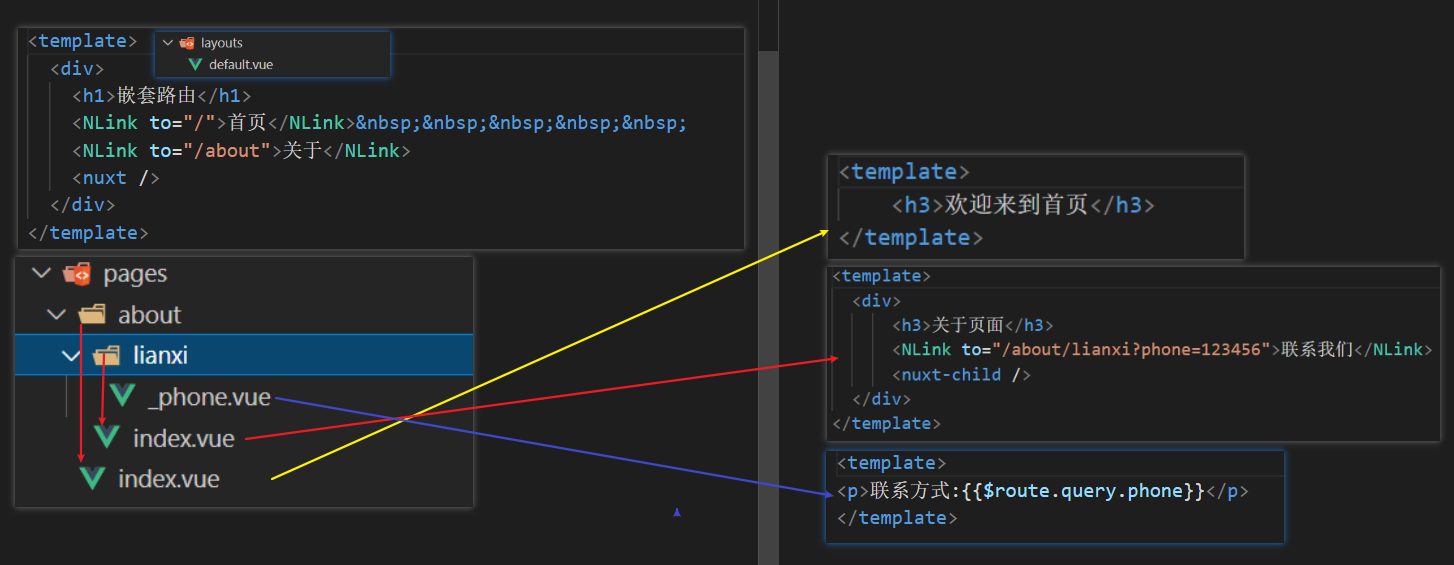
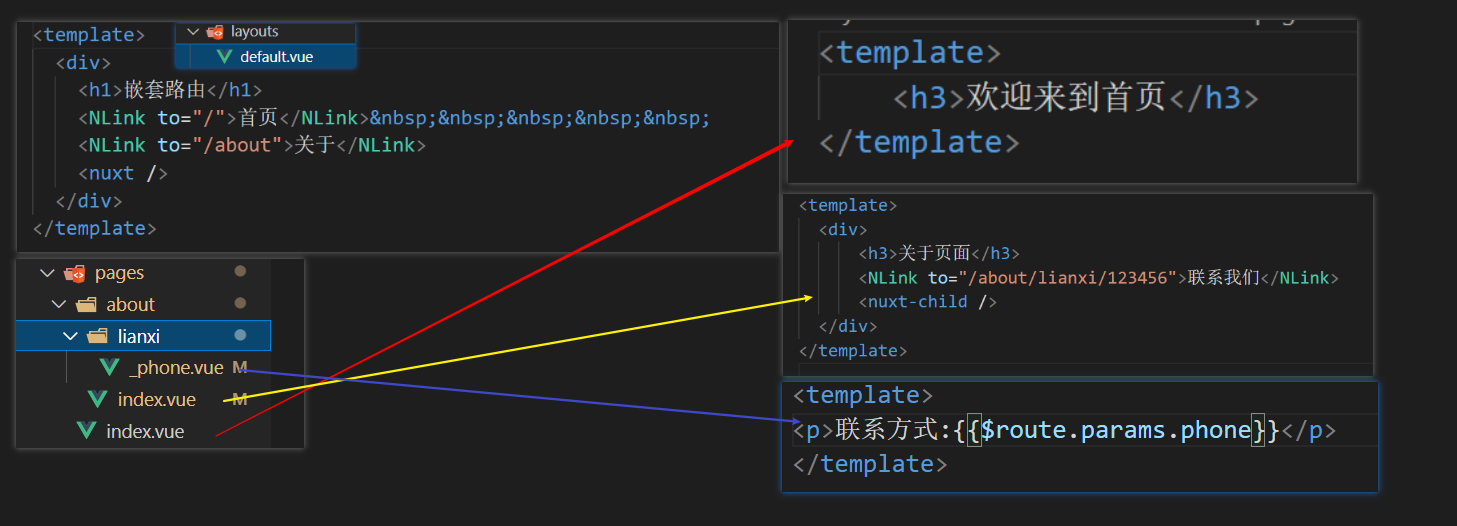
知识点总结

diff --git a/学院知识总结/Nuxt/基础知识点.md b/学院知识总结/Nuxt/基础知识点.md
@@ -118,11 +118,11 @@ nuxt-link-exact-active //精确匹配
 2. 路由和文件的关系
     | 文件 | 对应路径 |
     |--------|------|
-    | pages/index.vue | / | 
-    | pages/about.vue | /about | 
-    | pages/user/index.vue | /user | 
-    | pages/user/details | /user/details | 
-![图片](./img/3.png) 
+    | pages/index.vue | / |
+    | pages/about.vue | /about |
+    | pages/user/index.vue | /user |
+    | pages/user/details | /user/details |
+    ![图片](./img/3.png) 
 
 3. 动态路由
 ### 路径参数
@@ -134,7 +134,8 @@ nuxt-link-exact-active //精确匹配
 ![图片](./img/6.png) 
 
 ``总结:``
-* 文件夹的层级就是路由的嵌套关系,一旦涉及参数传递单个_参数名.vue,多个文件夹名也要下划线开头。
+* 文件夹的层级就是路由的嵌套关系,路径方式参数传递单个_参数名.vue,多个文件夹名也要下划线开头。
+* 查询方式参数传递,直接 路径.vue,接收$route.query.参数名即可。
 
 ## asyncData(异步数据)
 
@@ -175,7 +176,7 @@ export default {
     类名：url('~/assets/imgs/2.jpg')
     行内: url(${require("~/static/imgs/1.jpg")})
    -->
-``` 
+```
 
 ## 预处理器
 * less 、scss

diff --git a/学院知识总结/Nuxt/项目部署.md b/学院知识总结/Nuxt/项目部署.md
@@ -1,0 +1,14 @@
+# 项目部署上线
+
+* nginx:高效轻量的web的服务器
+1. 下载
+[链接](http://nginx.org/en/download.html)
+2. 解压后,放到一个盘符
+3. 配置nginx
+    1. nginx -t  校验nginx配置是否正确
+    ![图片](./img/8.png) 
+    2. 启动nginx(根目录下): `nginx -c  conf/nginx.conf`
+    3. 访问默认网站(localhost:80)
+    ![图片](./img/9.png) 
+
+* 部署上线
